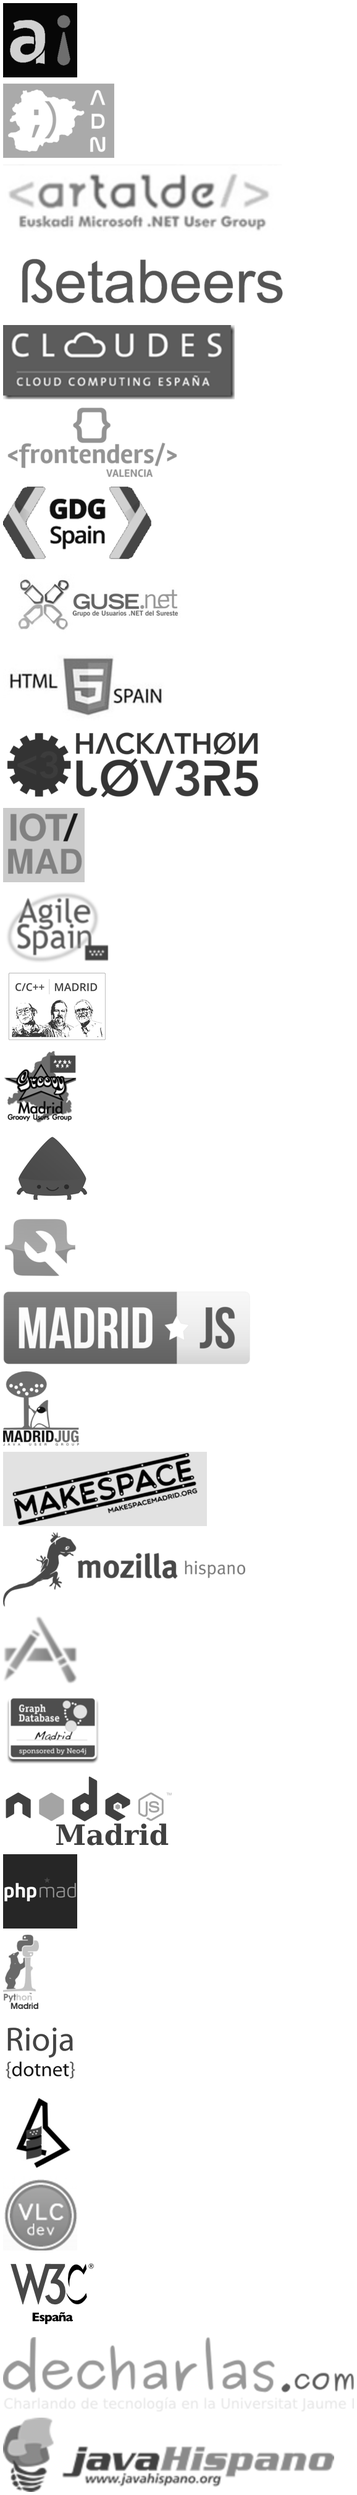
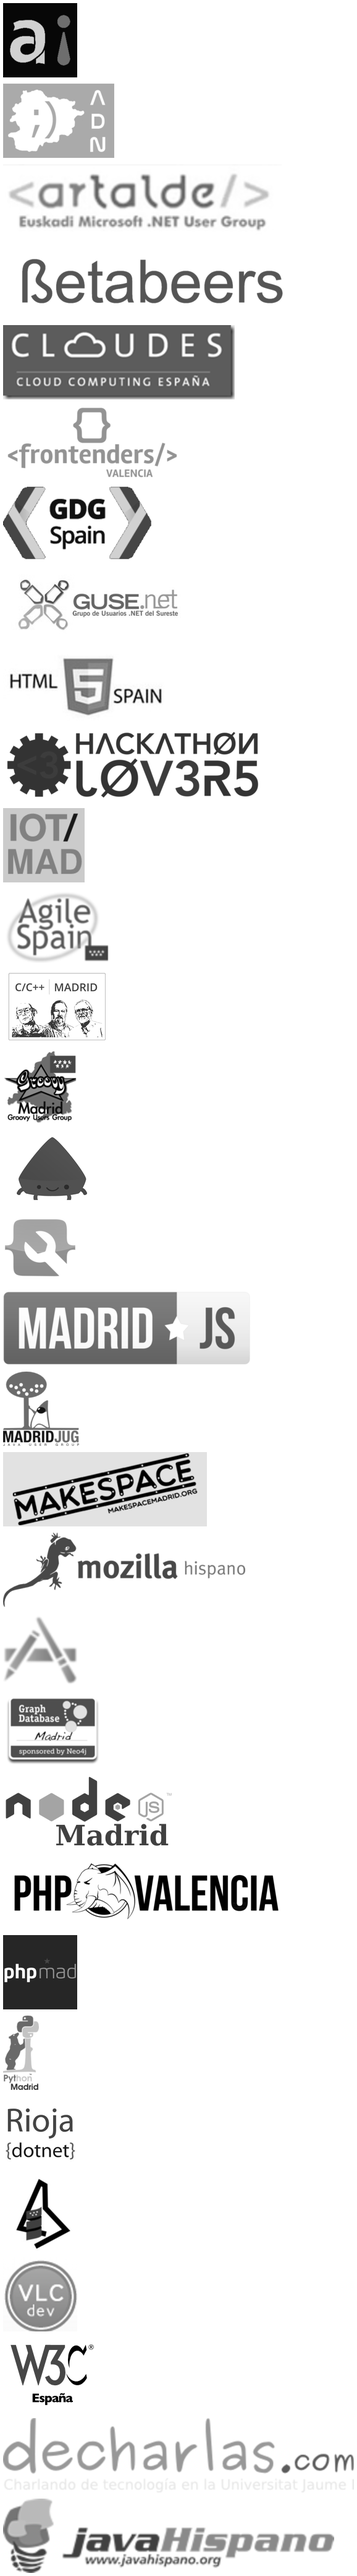
Corrected PHP Valencia

diff --git a/src/js/communities.js b/src/js/communities.js
@@ -1,1 +1,1 @@
-exports.communities=[{"className":"GDG-Spain","name":"GDG Spain","url":"http://www.gdgspain.org/","logo":"http://www.gdgspain.org/wp-content/uploads/2014/05/logo_with_background.png"},{"className":"RiojaDotNet","name":"RiojaDotNet","url":"http://www.riojadotnet.com","logo":"http://www.riojadotnet.com/Media/Default/images/RiojaDotNet200x200.jpg"},{"className":"Mozilla-Hispano","name":"Mozilla Hispano","url":"http://www.mozilla-hispano.org/","logo":"http://www.mozilla-hispano.org/archivos/marca/mh-banner.png"},{"className":"ScalaMAD","name":"ScalaMAD","url":"http://www.meetup.com/Scala-Programming-Madrid/","logo":"http://photos3.meetupstatic.com/photos/event/d/0/4/a/highres_250073322.jpeg"},{"className":"MadriAgil","name":"MadriAgil","url":"http://www.meetup.com/madriagil/","logo":"http://photos1.meetupstatic.com/photos/event/2/5/7/7/global_26709591.jpeg"},{"className":"Neo4j-Spain","name":"Neo4j Spain","url":"http://www.meetup.com/graphdb-spain/","logo":"http://photos2.meetupstatic.com/photos/event/8/f/a/e/highres_83916782.jpeg"},{"className":"Madrid-C-C--","name":"Madrid C/C++","url":"http://www.meetup.com/Madrid-C-Cpp/","logo":"http://photos2.meetupstatic.com/photos/event/8/c/c/a/highres_368916042.jpeg"},{"className":"Madrid-GUG","name":"Madrid GUG","url":"http://www.meetup.com/madrid-gug/","logo":"http://photos2.meetupstatic.com/photos/event/3/a/5/e/highres_368114942.jpeg"},{"className":"MadridJUG","name":"MadridJUG","url":"https://plus.google.com/communities/100722318999844603412","logo":"http://s3-eu-west-1.amazonaws.com/madrid-jug/logos/logoJUG.ai"},{"className":"javaHispano","name":"javaHispano","url":"http://www.javahispano.org/","logo":"http://www.javahispano.org/storage/imagenes/logoJavaHispano.png?__SQUARESPACE_CACHEVERSION=1318192706703"},{"className":"NSCoders-Night-Madrid","name":"NSCoders Night Madrid","url":"http://nscoder-mad.tumblr.com/","logo":"http://photos1.meetupstatic.com/photos/event/2/5/a/highres_233640602.jpeg"},{"className":"MadridJS","name":"MadridJS","url":"http://meetup.com/madridjs","logo":"http://dl.dropboxusercontent.com/s/3e442xhphhnl9t2/madridjs-new-high.png?dl=1&token_hash=AAGqWKMe39SaIDNUjp8tkF8NIGMePAZuPEGRbw7nBIomHw&expiry=1401202512"},{"className":"decharlas","name":"decharlas","url":"http://decharlas.com","logo":"http://decharlas.uji.es/images/logo-decharlas.png"},{"className":"Python-Madrid","name":"Python Madrid","url":"http://www.python-madrid.es/","logo":"http://s3-eu-west-1.amazonaws.com/niwi-web/user/python-madrid-logo-bkgrd-white.svg"},{"className":"Functional-Programming-Madrid","name":"Functional Programming Madrid","url":"http://www.meetup.com/FP-Madrid/","logo":""},{"className":"Madrid-rb","name":"Madrid.rb","url":"https://madridrb.jottit.com/","logo":"http://pbs.twimg.com/media/Bj1KPKOCYAAfKi-.png"},{"className":"Cloudes","name":"Cloudes","url":"https://www.linkedin.com/groups/Grupo-usuarios-Cloud-Computing-Espa%C3%B1a-3529148?trk=my_groups-b-grp-v","logo":"http://www.ciin.es/imagenes/e75d18f6baf9_B7D9/LogoCloudes_thumb.png"},{"className":"Artalde-NET","name":"Artalde.NET","url":"http://geeks.ms/blogs/artalde/","logo":"http://www.microsoft.com/spain/msdn/comunidades/images/artalde.png"},{"className":"Geeks-ms","name":"Geeks.ms","url":"http://geeks.ms","logo":""},{"className":"Internet-of-Things","name":"Internet of Things","url":"http://www.meetup.com/iotmadrid","logo":"http://pbs.twimg.com/profile_images/1649965531/logotwitteriotmadrid.png"},{"className":"Makespace-Madrid","name":"Makespace Madrid","url":"http://www.meetup.com/makespacemadrid","logo":"http://makespacemadrid.org/wp-content/uploads/2013/04/makespacemadrid_w2.png"},{"className":"Hackathon-Lovers","name":"Hackathon Lovers","url":"http://hackathonlovers.com/","logo":"http://hackathonlovers.com/img/hackathon-lovers-logo.png"},{"className":"HTML5-Spain","name":"HTML5 Spain","url":"http://www.meetup.com/HTML5-Spain/","logo":"http://photos1.meetupstatic.com/photos/event/4/1/a/c/global_219796812.jpeg"},{"className":"Frontenders-Valencia","name":"Frontenders Valencia","url":"http://valencia.frontenders.me/","logo":"http://valencia.frontenders.me/img/logo_frontenders.png"},{"className":"PHP-Valencia","name":"PHP Valencia","url":"https://groups.google.com/forum/#!forum/php-valencia","logo":""},{"className":"Node-js-Madrid","name":"Node.js Madrid","url":"http://www.meetup.com/Node-js-Madrid/","logo":"http://files.meetup.com/9727852/Node.js-Madrid.svg"},{"className":"PHPMad","name":"PHPMad","url":"http://www.meetup.com/PHPMad/","logo":"http://lh3.googleusercontent.com/-4i041NVBgzE/AAAAAAAAAAI/AAAAAAAAABE/2js8DbQtacM/photo.jpg"},{"className":"Accesibilidad-Spain","name":"Accesibilidad Spain","url":"http://www.meetup.com/Accesibilidad-Spain/","logo":"http://photos3.meetupstatic.com/photos/event/4/7/2/4/global_295518212.jpeg"},{"className":"GUSENet","name":"GUSENet","url":"http://gusenet.org/","logo":"http://gusenet.org/images/logo_guse.jpg"},{"className":"VLCDev","name":"VLCDev","url":"http://www.linkedin.com/groups/VLCdev-3918814","logo":"http://pbs.twimg.com/profile_images/1374480824/twvaldev_400x400.png"},{"className":"AndorraDotNet","name":"AndorraDotNet","url":"http://andorradotnet.com","logo":"http://andorradotnet.files.wordpress.com/2012/06/cropped-logo01_240.png"},{"className":"Betabeers","name":"Betabeers","url":"http://www.betabeers.com","logo":"http://betabeers.com/uploads/blog/betabeers-red-transparent.png"},{"className":"MadridDevops","name":"MadridDevops","url":"http://madrid.devops.es","logo":"http://raw.githubusercontent.com/madrid-devops/branding/master/Three%20Inks%20Logo%20(Transparent%20Background).png"},{"className":"W3C-Spain","name":"W3C Spain","url":"http://www.w3c.es/","logo":"http://docs.google.com/uc?export=download&id=0B7itBYzP88oNN01QNGNOeFc4X2c"}];
+exports.communities=[{"className":"GDG-Spain","name":"GDG Spain","url":"http://www.gdgspain.org/","logo":"http://www.gdgspain.org/wp-content/uploads/2014/05/logo_with_background.png"},{"className":"RiojaDotNet","name":"RiojaDotNet","url":"http://www.riojadotnet.com","logo":"http://www.riojadotnet.com/Media/Default/images/RiojaDotNet200x200.jpg"},{"className":"Mozilla-Hispano","name":"Mozilla Hispano","url":"http://www.mozilla-hispano.org/","logo":"http://www.mozilla-hispano.org/archivos/marca/mh-banner.png"},{"className":"ScalaMAD","name":"ScalaMAD","url":"http://www.meetup.com/Scala-Programming-Madrid/","logo":"http://photos3.meetupstatic.com/photos/event/d/0/4/a/highres_250073322.jpeg"},{"className":"MadriAgil","name":"MadriAgil","url":"http://www.meetup.com/madriagil/","logo":"http://photos1.meetupstatic.com/photos/event/2/5/7/7/global_26709591.jpeg"},{"className":"Neo4j-Spain","name":"Neo4j Spain","url":"http://www.meetup.com/graphdb-spain/","logo":"http://photos2.meetupstatic.com/photos/event/8/f/a/e/highres_83916782.jpeg"},{"className":"Madrid-C-C--","name":"Madrid C/C++","url":"http://www.meetup.com/Madrid-C-Cpp/","logo":"http://photos2.meetupstatic.com/photos/event/8/c/c/a/highres_368916042.jpeg"},{"className":"Madrid-GUG","name":"Madrid GUG","url":"http://www.meetup.com/madrid-gug/","logo":"http://photos2.meetupstatic.com/photos/event/3/a/5/e/highres_368114942.jpeg"},{"className":"MadridJUG","name":"MadridJUG","url":"https://plus.google.com/communities/100722318999844603412","logo":"http://s3-eu-west-1.amazonaws.com/madrid-jug/logos/logoJUG.ai"},{"className":"javaHispano","name":"javaHispano","url":"http://www.javahispano.org/","logo":"http://www.javahispano.org/storage/imagenes/logoJavaHispano.png?__SQUARESPACE_CACHEVERSION=1318192706703"},{"className":"NSCoders-Night-Madrid","name":"NSCoders Night Madrid","url":"http://nscoder-mad.tumblr.com/","logo":"http://photos1.meetupstatic.com/photos/event/2/5/a/highres_233640602.jpeg"},{"className":"MadridJS","name":"MadridJS","url":"http://meetup.com/madridjs","logo":"http://dl.dropboxusercontent.com/s/3e442xhphhnl9t2/madridjs-new-high.png?dl=1&token_hash=AAGqWKMe39SaIDNUjp8tkF8NIGMePAZuPEGRbw7nBIomHw&expiry=1401202512"},{"className":"decharlas","name":"decharlas","url":"http://decharlas.com","logo":"http://decharlas.uji.es/images/logo-decharlas.png"},{"className":"Python-Madrid","name":"Python Madrid","url":"http://www.python-madrid.es/","logo":"http://s3-eu-west-1.amazonaws.com/niwi-web/user/python-madrid-logo-bkgrd-white.svg"},{"className":"Functional-Programming-Madrid","name":"Functional Programming Madrid","url":"http://www.meetup.com/FP-Madrid/","logo":""},{"className":"Madrid-rb","name":"Madrid.rb","url":"https://madridrb.jottit.com/","logo":"http://pbs.twimg.com/media/Bj1KPKOCYAAfKi-.png"},{"className":"Cloudes","name":"Cloudes","url":"https://www.linkedin.com/groups/Grupo-usuarios-Cloud-Computing-Espa%C3%B1a-3529148?trk=my_groups-b-grp-v","logo":"http://www.ciin.es/imagenes/e75d18f6baf9_B7D9/LogoCloudes_thumb.png"},{"className":"Artalde-NET","name":"Artalde.NET","url":"http://geeks.ms/blogs/artalde/","logo":"http://www.microsoft.com/spain/msdn/comunidades/images/artalde.png"},{"className":"Geeks-ms","name":"Geeks.ms","url":"http://geeks.ms","logo":""},{"className":"Internet-of-Things","name":"Internet of Things","url":"http://www.meetup.com/iotmadrid","logo":"http://pbs.twimg.com/profile_images/1649965531/logotwitteriotmadrid.png"},{"className":"Makespace-Madrid","name":"Makespace Madrid","url":"http://www.meetup.com/makespacemadrid","logo":"http://makespacemadrid.org/wp-content/uploads/2013/04/makespacemadrid_w2.png"},{"className":"Hackathon-Lovers","name":"Hackathon Lovers","url":"http://hackathonlovers.com/","logo":"http://hackathonlovers.com/img/hackathon-lovers-logo.png"},{"className":"HTML5-Spain","name":"HTML5 Spain","url":"http://www.meetup.com/HTML5-Spain/","logo":"http://photos1.meetupstatic.com/photos/event/4/1/a/c/global_219796812.jpeg"},{"className":"Frontenders-Valencia","name":"Frontenders Valencia","url":"http://valencia.frontenders.me/","logo":"http://valencia.frontenders.me/img/logo_frontenders.png"},{"className":"PHP-Valencia","name":"PHP Valencia","url":"http://phpvalencia.es","logo":"http://lh4.googleusercontent.com/b5mP_QksWkIu8ie9QVSC_CIp5-CpntQjNMHzVlutaxplcPqPH9g1Y-uri1lmCWeS3GrCFAj-EA=w1831-h851"},{"className":"Node-js-Madrid","name":"Node.js Madrid","url":"http://www.meetup.com/Node-js-Madrid/","logo":"http://files.meetup.com/9727852/Node.js-Madrid.svg"},{"className":"PHPMad","name":"PHPMad","url":"http://www.meetup.com/PHPMad/","logo":"http://lh3.googleusercontent.com/-4i041NVBgzE/AAAAAAAAAAI/AAAAAAAAABE/2js8DbQtacM/photo.jpg"},{"className":"Accesibilidad-Spain","name":"Accesibilidad Spain","url":"http://www.meetup.com/Accesibilidad-Spain/","logo":"http://photos3.meetupstatic.com/photos/event/4/7/2/4/global_295518212.jpeg"},{"className":"GUSENet","name":"GUSENet","url":"http://gusenet.org/","logo":"http://gusenet.org/images/logo_guse.jpg"},{"className":"VLCDev","name":"VLCDev","url":"http://www.linkedin.com/groups/VLCdev-3918814","logo":"http://pbs.twimg.com/profile_images/1374480824/twvaldev_400x400.png"},{"className":"AndorraDotNet","name":"AndorraDotNet","url":"http://andorradotnet.com","logo":"http://andorradotnet.files.wordpress.com/2012/06/cropped-logo01_240.png"},{"className":"Betabeers","name":"Betabeers","url":"http://www.betabeers.com","logo":"http://betabeers.com/uploads/blog/betabeers-red-transparent.png"},{"className":"MadridDevops","name":"MadridDevops","url":"http://madrid.devops.es","logo":"http://raw.githubusercontent.com/madrid-devops/branding/master/Three%20Inks%20Logo%20(Transparent%20Background).png"},{"className":"W3C-Spain","name":"W3C Spain","url":"http://www.w3c.es/","logo":"http://docs.google.com/uc?export=download&id=0B7itBYzP88oNN01QNGNOeFc4X2c"}];

diff --git a/src/scss/_sprite.scss b/src/scss/_sprite.scss
@@ -21,14 +21,15 @@ $Mozilla-Hispano: -2px -1237px 196px 60px;
 $NSCoders-Night-Madrid: -2px -1302px 60px 60px;
 $Neo4j-Spain: -2px -1367px 80px 60px;
 $Node-js-Madrid: -2px -1432px 138px 60px;
-$PHPMad: -2px -1497px 60px 60px;
-$Python-Madrid: -2px -1562px 29px 60px;
-$RiojaDotNet: -2px -1627px 60px 60px;
-$ScalaMAD: -2px -1692px 60px 60px;
-$VLCDev: -2px -1757px 60px 60px;
-$W3C-Spain: -2px -1822px 79px 60px;
-$decharlas: -2px -1887px 284px 60px;
-$javaHispano: -2px -1952px 268px 60px;
+$PHP-Valencia: -2px -1497px 231px 60px;
+$PHPMad: -2px -1562px 60px 60px;
+$Python-Madrid: -2px -1627px 29px 60px;
+$RiojaDotNet: -2px -1692px 60px 60px;
+$ScalaMAD: -2px -1757px 60px 60px;
+$VLCDev: -2px -1822px 60px 60px;
+$W3C-Spain: -2px -1887px 79px 60px;
+$decharlas: -2px -1952px 284px 60px;
+$javaHispano: -2px -2017px 268px 60px;
 
 @mixin sprite-width($sprite) {
   width: nth($sprite, 3);
@@ -60,6 +61,6 @@ $javaHispano: -2px -1952px 268px 60px;
 @media (min--moz-device-pixel-ratio: 1.5), (-o-min-device-pixel-ratio: 3/2), (-webkit-min-device-pixel-ratio: 1.5), (min-device-pixel-ratio: 1.5), (min-resolution: 1.5dppx) {
   .community {
     background-image: url('/img/communities/communities-x2.png');
-    background-size: 289px 2015px;
+    background-size: 289px 2080px;
   }
 }

diff --git a/src/_includes/communities.html b/src/_includes/communities.html
@@ -23,7 +23,7 @@
 <a href="http://hackathonlovers.com/" class="community Hackathon-Lovers" title="Hackathon Lovers">Hackathon Lovers</a> 
 <a href="http://www.meetup.com/HTML5-Spain/" class="community HTML5-Spain" title="HTML5 Spain">HTML5 Spain</a> 
 <a href="http://valencia.frontenders.me/" class="community Frontenders-Valencia" title="Frontenders Valencia">Frontenders Valencia</a> 
-<a href="https://groups.google.com/forum/#!forum/php-valencia" class="community PHP-Valencia" title="PHP Valencia">PHP Valencia</a> 
+<a href="http://phpvalencia.es" class="community PHP-Valencia" title="PHP Valencia">PHP Valencia</a> 
 <a href="http://www.meetup.com/Node-js-Madrid/" class="community Node-js-Madrid" title="Node.js Madrid">Node.js Madrid</a> 
 <a href="http://www.meetup.com/PHPMad/" class="community PHPMad" title="PHPMad">PHPMad</a> 
 <a href="http://www.meetup.com/Accesibilidad-Spain/" class="community Accesibilidad-Spain" title="Accesibilidad Spain">Accesibilidad Spain</a> 

diff --git a/src/scss/communities.scss b/src/scss/communities.scss
@@ -25,7 +25,7 @@
 .Hackathon-Lovers { @include sprite($Hackathon-Lovers); }
 .HTML5-Spain { @include sprite($HTML5-Spain); }
 .Frontenders-Valencia { @include sprite($Frontenders-Valencia); }
-
+.PHP-Valencia { @include sprite($PHP-Valencia); }
 .Node-js-Madrid { @include sprite($Node-js-Madrid); }
 .PHPMad { @include sprite($PHPMad); }
 .Accesibilidad-Spain { @include sprite($Accesibilidad-Spain); }
